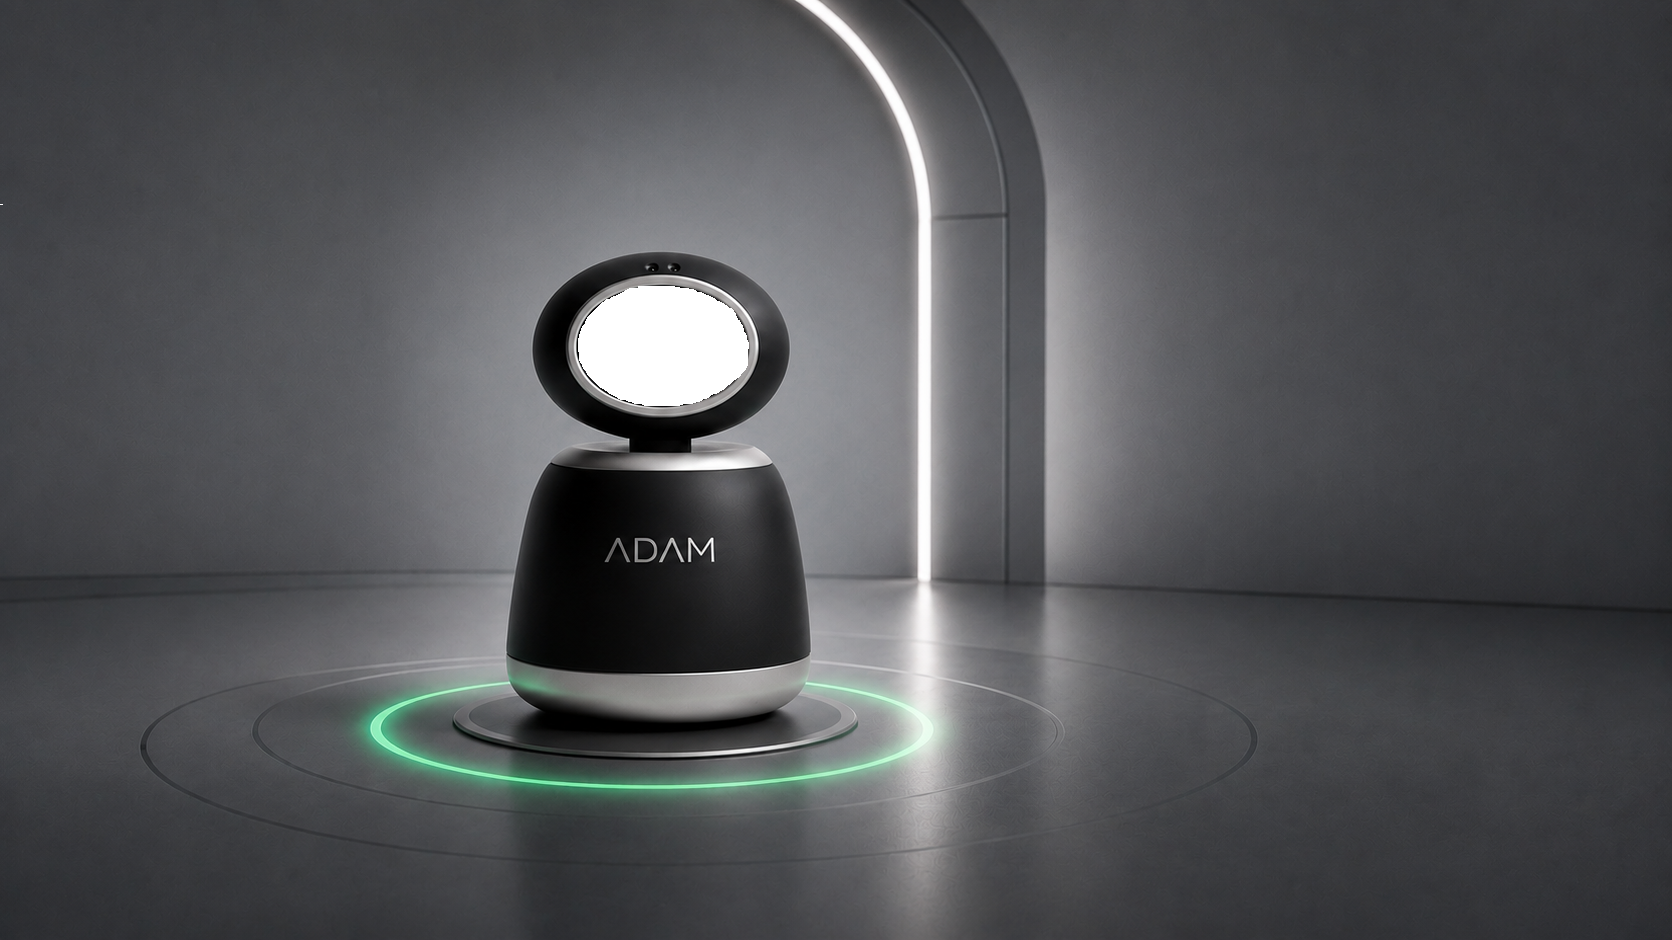
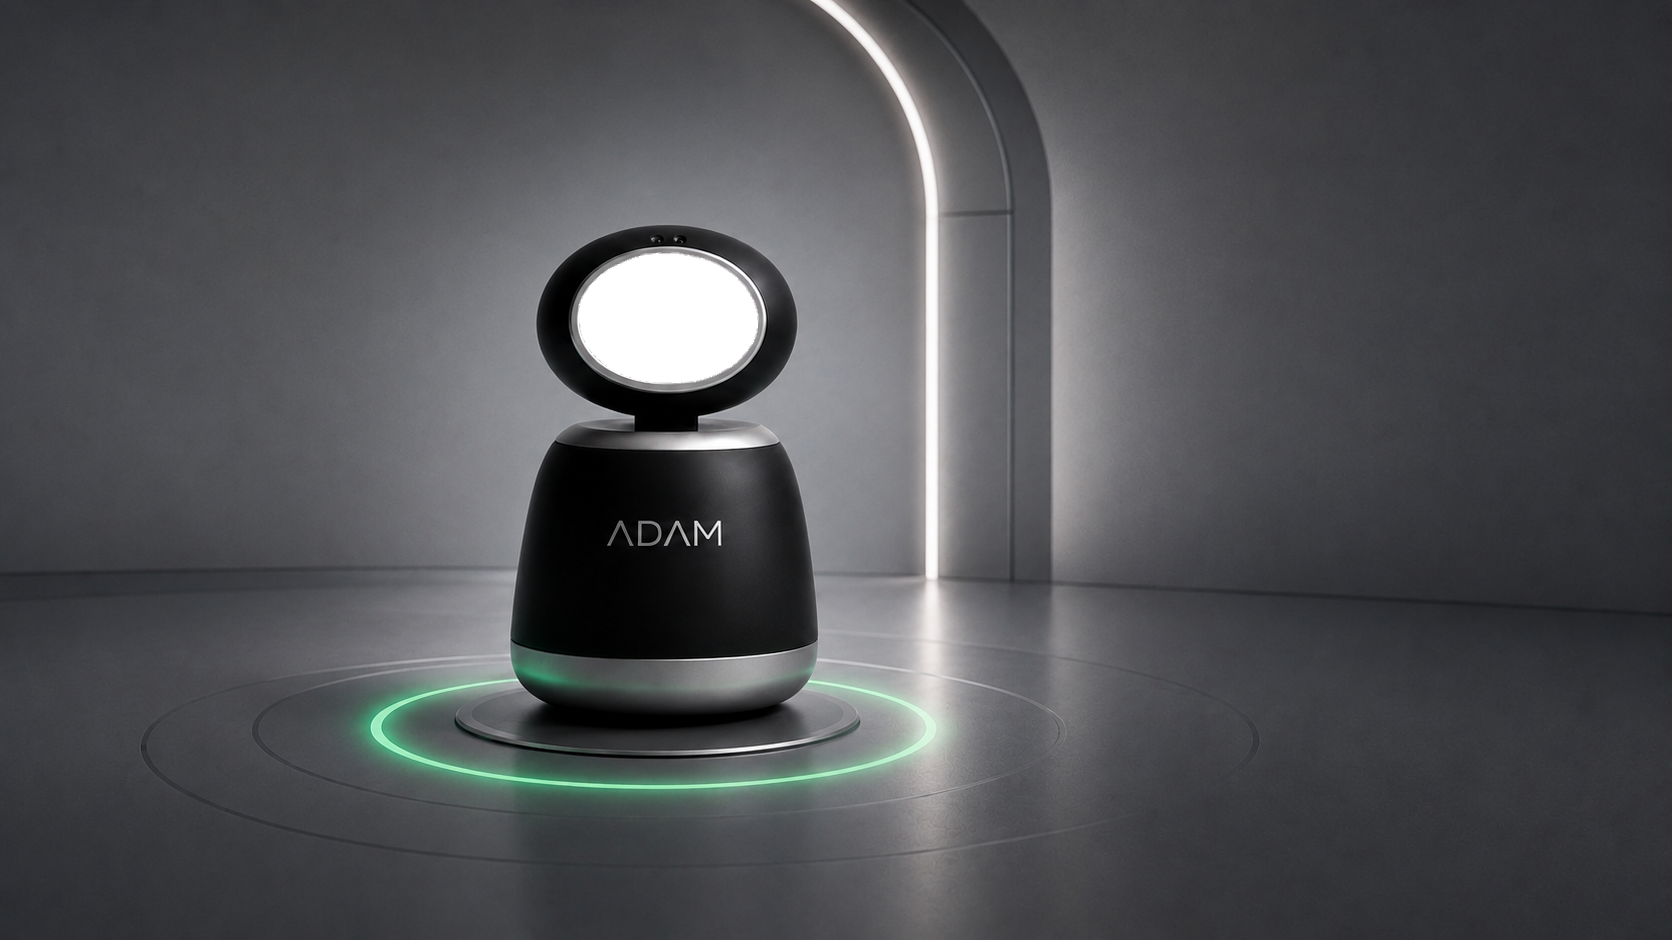
fix

diff --git a/src/app/test/demo/demo.module.css b/src/app/test/demo/demo.module.css
@@ -34,10 +34,10 @@
 .emotionLayer {
     background-color: black;
   position: absolute;
-  left: 34.1%;
-  top: 27.7%;
-  width: 11%;
-  height: 14.8%;
+  left: 32.8%;
+  top: 23.6%;
+  width: 14%;
+  height: 16%;
   border-radius: 50%;
   overflow: hidden;
   z-index: 2;
